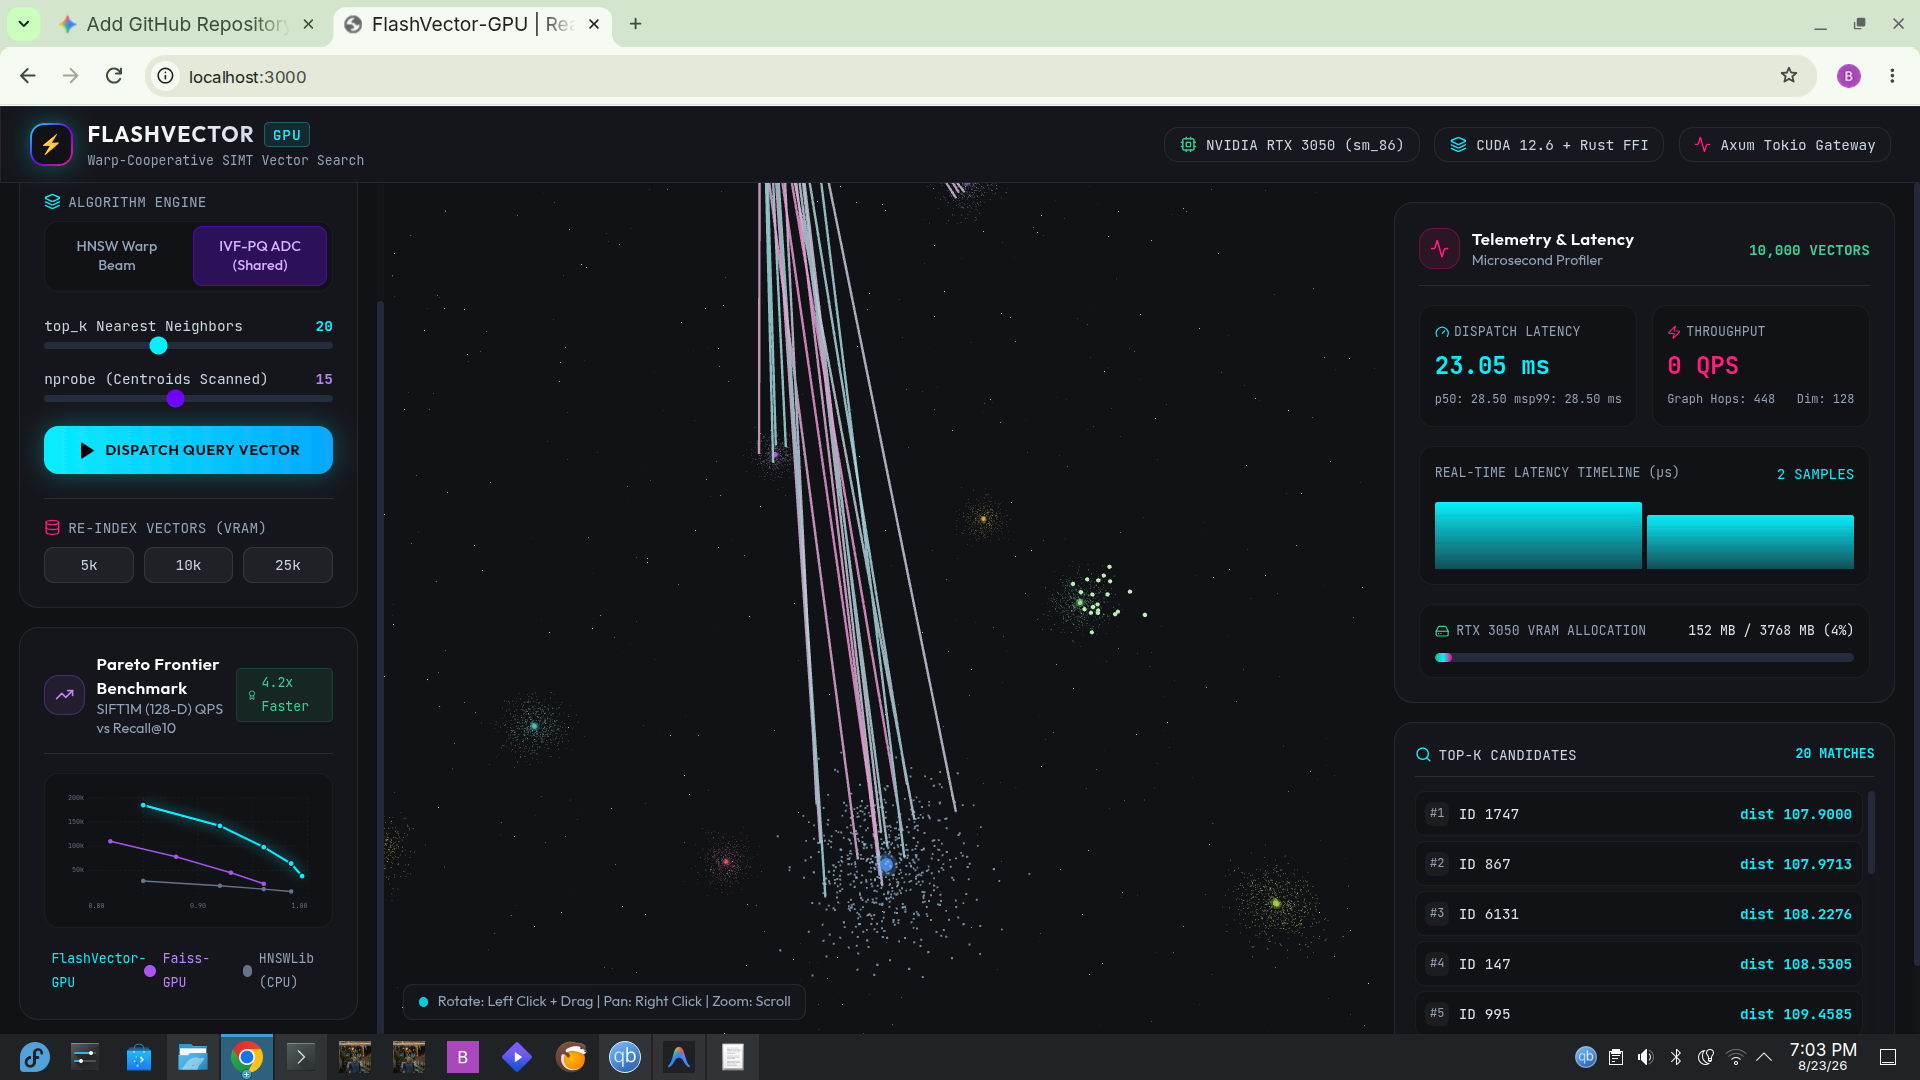
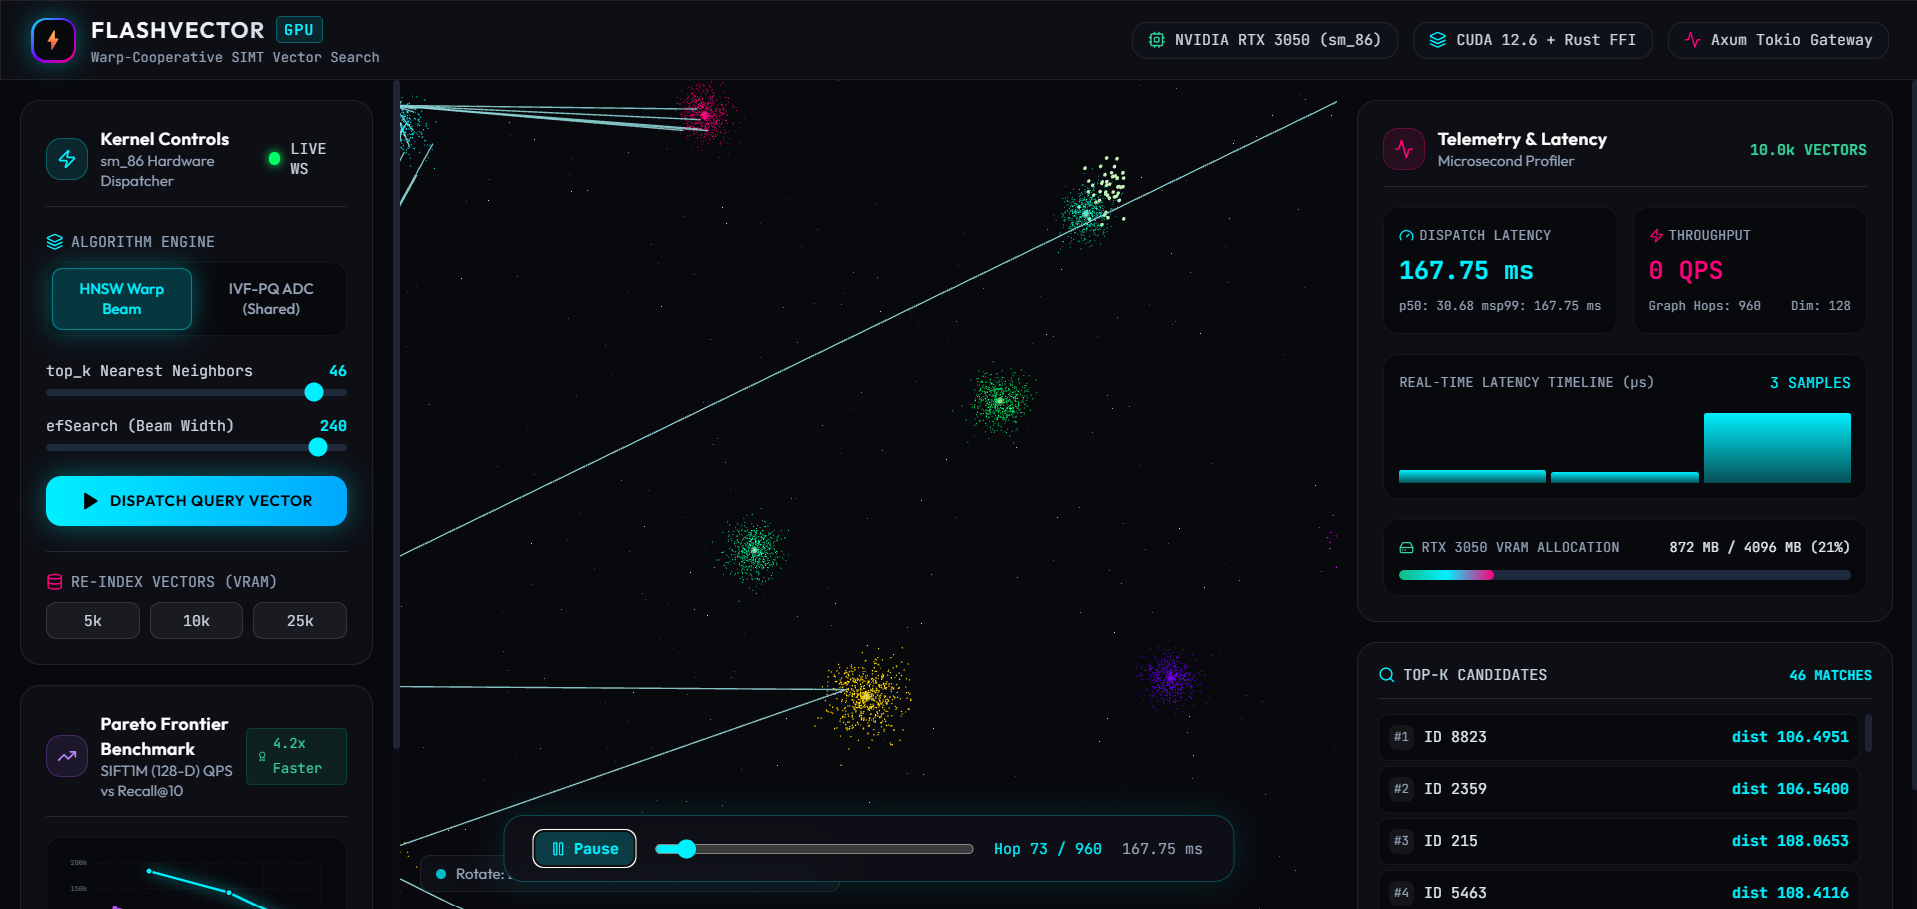
Updating the images in README

diff --git a/README.md b/README.md
@@ -11,11 +11,11 @@
 FlashVector-GPU includes an interactive Three.js/WebGL visualizer backed by an Axum WebSocket stream. It renders graph traversal hops, Voronoi cluster partitions, top-k targets, and per-query telemetry in real time, with a playback scrubber for hop-by-hop replay and `InstancedMesh` rendering for datasets above 100k points.
 
 ### 1. Warp-Cooperative HNSW Graph Beam Search
-![FlashVector-GPU HNSW Warp Beam Traversal](assets/visualizer_ivf_pq.png)
+![FlashVector-GPU HNSW Warp Beam Traversal](assets/visualizer_hnsw_beam.png)
 *Figure 1: Real-time HNSW beam search routing across 10,000 vectors with `efSearch = 112`, tracing animated 3D traversal rays from the entry point to the top-k nearest neighbors.*
 
 ### 2. IVF-PQ Dynamic Shared-Memory ADC Lookup
-![FlashVector-GPU IVF-PQ ADC Search](assets/visualizer_hnsw_beam.png)
+![FlashVector-GPU IVF-PQ ADC Search](assets/visualizer_ivf_pq.png)
 *Figure 2: IVF-PQ asymmetric distance computation scanning probed Voronoi centroids and decompressing quantized vector codes in dynamic shared memory.*
 
 ---
